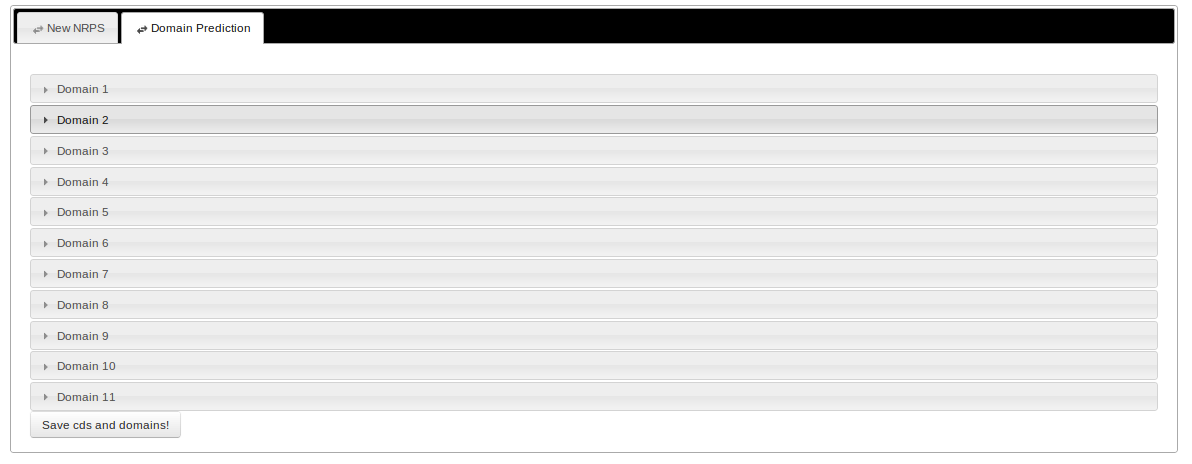
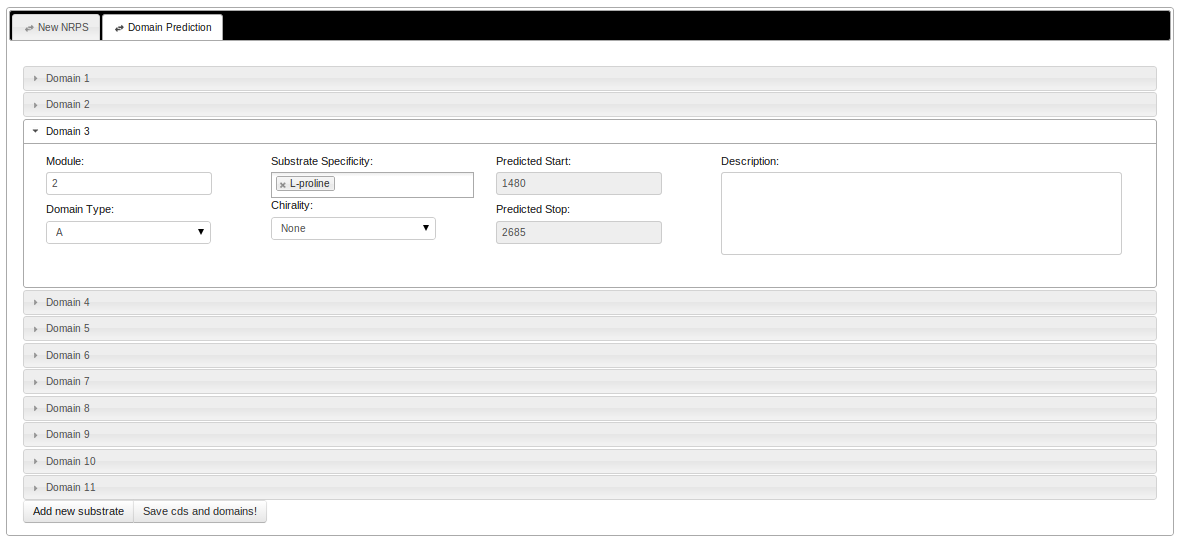
fix some important error in documentation, update domain extension section

Changed region(s): [[0.0, 0.0, 0.9975, 0.9957], [0.3429, 0.3922, 0.3741, 0.4224], [0.1559, 0.3922, 0.187, 0.4224]]

diff --git a/Django/DjangoNrps/templates/documentation/documentation.html b/Django/DjangoNrps/templates/documentation/documentation.html
@@ -64,7 +64,7 @@
                             <h2>Features</h2>
                         </div>
              <div class="well">
-                                     <li> Graphical NRP design platform with a total of 682 amino acid monomers to chose from</li>
+                                     <li> Graphical NRP design platform</li>
                                     <li> <i>In silico</i> prediction of the corresponding optimal NRPS domain sequence according to the evolutionary distance of the host organism, cloning practicability and experimentally characterized domain interactions</li>
                                     <li> Framework for the development of a cloning strategy including Gibson primer design, integration of the NRPS sequence into a standard or custom backbone and the incorporation of additional biological parts</li>
                                     <li> Automated extension of the NRPSDesigner database by newly discovered NRPS pathways and further characterization of existing domains upon experimental testing</li>
@@ -82,10 +82,11 @@
                 <li>The NRP has to be chosen (sequence of amino acids).</li>
                 <li>An optimal NRPS domain sequence is returned.</li>
                 <li>The NRPS DNA sequences can be inspected. </li>
-                <li>Appropriate backbone ( with a promoter, RBS, start codon) and other parts can be added to the plasmid. </li>
+                <li>Appropriate backbone (with a promoter, RBS, start and stop codon) and other parts can be added to the plasmid. </li>
                 <li>Gibson assembly can be used in order to construct the plasmid and transform bacteria. </li>
-                <li>Experimental results can be added to further characterize domains stored in the database</li>
+                <li>Experimental results can be entered into the database, thus further characterizing the corresponding domains.</li>
                 <li><span class="label label-info">optional</span> A library is created by shuffling one of the monomer positions.</li>
+                <li><span class="label label-info">optional</span> A library is created by shifting the boundaries of the domains.</li>
                 <li><span class="label label-info">optional</span> The NRPSDesigner database can be extended with newly discovered synthetase sequences. </li>
 
               </div>
@@ -98,7 +99,7 @@
                 <p> The input basically only consists of a sequence of monomers (amino acids) which should make up the final non-ribosomal peptide (NRP). This is achieved with the user-friendly interface shown below: </p>
                 <img src={% static "images/documentation/screenshot1.png" %} /></br>
 
-                <p>The NRPSDesigner makes it very easy to extend the database with novel NRPS genes and every user can do so (see below). Those genes and domains will also be used in the NRPSDesigner algorithm, if the above button has not been pressed. On the other hand, if it has been selected, then only domains curated by the authors, or other scientists with NRPS expertise (curators), will be utilized. In the next panel the actual the actual sequence of NRP monomers can be stepwise selected. If a particular monomer is chosen its configuration can be specified as L or D. Note that the monomer choices available will depend on the specificities of the adenylation domains available in NRPSDesigner database and the chirality of the preceding monomer, as dictated by the rules of NRP synthesis. When you want to elongate the sequence of monomers by one, you should press the ‘Add monomer’ button. You can click on the chosen monomers and then possibly replace the selection by choosing another one from the dropdown. Finally, the peptide to be assembled is also presented graphically in the panel to the right.</p>
+                <p>The NRPSDesigner makes it very easy to extend the database with novel NRPS genes and every user can do so (see below). Those genes and domains will also be used in the NRPSDesigner algorithm, if the above button has not been pressed. On the other hand, if it has been selected, then only domains curated by the authors, or other scientists with NRPS expertise (curators), will be utilized. In the next panel the actual the actual sequence of NRP monomers can be stepwise selected. If a particular monomer is chosen its configuration can be specified as L or D. Note that the monomer choices available will depend on the specificities of the adenylation and condensation domains available in NRPSDesigner database and the chirality of the preceding monomer, as dictated by the rules of NRP synthesis. When you want to elongate the sequence of monomers by one, you should press the ‘Add monomer’ button. You can click on the chosen monomers and then possibly replace the selection by choosing another one from the dropdown. Finally, the peptide to be assembled is also presented graphically in the panel to the right.</p>
 
 
                   <button class="btn" style="margin-left:10px">Add monomer</button>
@@ -145,7 +146,7 @@
                  <center>
                  <img src={% static "images/documentation/gibthon2.0beta.png" %} /> 
                  </center>
-                 <p style="margin-top:20px"> <a href="http://django.gibthon.org/"> Gibthon </a> was started as the software project of the Cambridge iGEM teams of 2010 and 2011 and comprises an open source tool which aids "in the design and manufacture of synthetic parts and devices for biological systems." The manufacture of the synthetic parts is accomplished by means of Gibson assembly, a technique for one-pot isothermal and scarless assembly of DNA fragments. Gibthon was chosen because of its user-friendly interface, which rapidly allows the scientist to use his expertise and modify the Gibson assembly primer suggestions by having direct access to the sequences. After each sequence modification, important primer properties (e.g. regarding self-priming) are re-calculated using UNAfold. In the next sections, the adapted version of Gibthon and its integration in NRPSDesigner will be explained. In the next sections, the modified version of Gibthon for integration with the NRPSDesigner and its use will be explained. </p>
+                 <p style="margin-top:20px"> <a href="http://django.gibthon.org/"> Gibthon </a> was started as the software project of the Cambridge iGEM teams of 2010 and 2011 and comprises an open source tool which aids "in the design and manufacture of synthetic parts and devices for biological systems." The manufacture of the synthetic parts is accomplished by means of Gibson assembly, a technique for one-pot isothermal and scarless assembly of DNA fragments. Gibthon was chosen because of its user-friendly interface, which rapidly allows the scientist to use his expertise and modify the Gibson assembly primer suggestions by having direct access to the sequences. After each sequence modification, important primer properties (e.g. regarding self-priming) are re-calculated using UNAfold. In the next sections, the adapted version of Gibthon and its integration in NRPSDesigner will be explained. </p>
 
                 <h3> Fragment library</h3>
                 <span class="label label-warning" style="margin-left:10px">[Login required]</span></br>
@@ -163,7 +164,7 @@
 
                 <p> The behaviour in the previously mentioned step is similar to the one present in the original Gibthon web-server, but with one important difference: Other fragments cannot be entered into the plasmid if they would disrupt the previously returned sequence of NRPS domains. Thus, other DNA sequences can be embedded in the plasmid only after the thioesterase (TE) domain or before the initialization adenylation domain. </p>
 
-                <p> <span class="label label-important">Important</span> As mentioned before, it is very important to ensure the addition of a promoter, a ribosome binding site and a start codon in the final sequence!</p>
+                <p> <span class="label label-important">Important</span> As mentioned before, it is very important to ensure the addition of a promoter, a ribosome binding site, a start and a stop codon in the final sequence!</p>
 
                     <h3> Primers </h3>
                     <p> If you click on the "Primers" tab, you will initially come across the following loading bar: </p>
@@ -251,7 +252,17 @@
 
              <img src={% static "images/documentation/HMMoutput.png" %} /></br>
 
-             <p> Once this output has been returned, manual curation has to take place: This includes adding appropriate descriptions to the files, checking or adding specificities to the adenylation domains and checking domain boundaries, for example with the in-built multiple sequence alignment. Pressing on the "Save cds and domains!" button results in the storage of all the previously entered and predicted information to the NRPSDesigner database. </p>
+             <p> Once this output has been returned, manual curation has to take place: This includes adding appropriate descriptions to the files, checking or adding specificities to the adenylation domains and checking domain boundaries. In particular, for each of the domains the following fields can be modified:</p>
+             <ul>
+             <li> <b> Module:</b> The number of the module to which the domain belongs. This is automatically calculated, but can be readjusted in the case of several genes coding for the same synthetase (for example the module number of tycC domains could be readjusted to start at 5). In this case, the final domain of tycB interacts with the first domain of tycB during the production of Tyrocidine in nature. Thus, by tagging them with consequent module numbers, the NRPSDesigner scoring function can prioritize them accordingly. </li>
+             <li> <b> Domain Type: </b> The type of the domain which was predicted.</li>
+             <li> <b> Substrate Specificity: </b> In the case of adenylation domains, it is very important to check for the correct specificity. If the antiSMASH2 substrate specificity prediction reaches a consensus, then this consensus is displayed. Nevertheless, this prediction might be wrong, so adjust accordingly. Condensation domains also have a specificity for the acceptor substrate. The input of this type of substrate specificity is optional, as it can be inferred from the specificity of the subsequent adenylation domain.</li>
+             <li> <b> Chirality: </b> (Optional): The chirality of a condensation domain describes its specificity for the preceding monomer, which is based on the monomer's chirality. This does not have to be entered in general, as the HMMs can distinguish between "C_L" and "C_D" domains (condensation domains with L or D specificities respectively).</li>
+             <li> <b> Predicted Start, Predicted Stop: </b> The start and stop of the domain (left and right boundary), as predicted by the HMM pipeline. Cannot be changed. Once all domains have been submitted and entered into the database, you will be able to enter experimental evidence for other domain boundaries by the appropriate NRPSDesigner application ("Submit experimental data"). </li>
+             <li> <b> Description: </b> An optional short description of some the domain's features or experimental findings regarding this domain (cite references which were added during the first step).</li>
+             </ul>
+
+             <p> Pressing on the "Save cds and domains!" button results in the storage of all the previously entered and predicted information to the NRPSDesigner database. </p>
 
              <div class="page-header">
              <h2> Privacy </h2>
